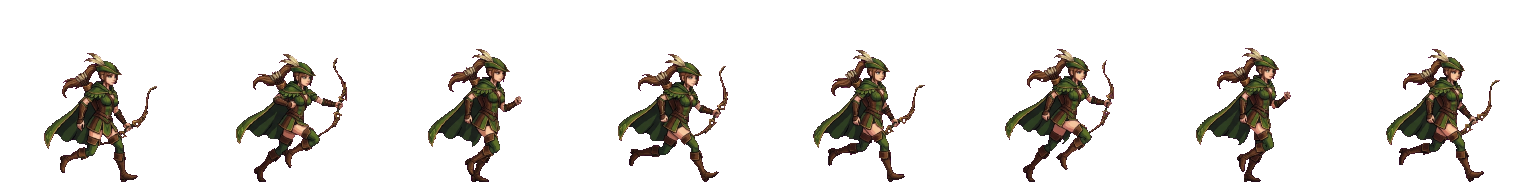
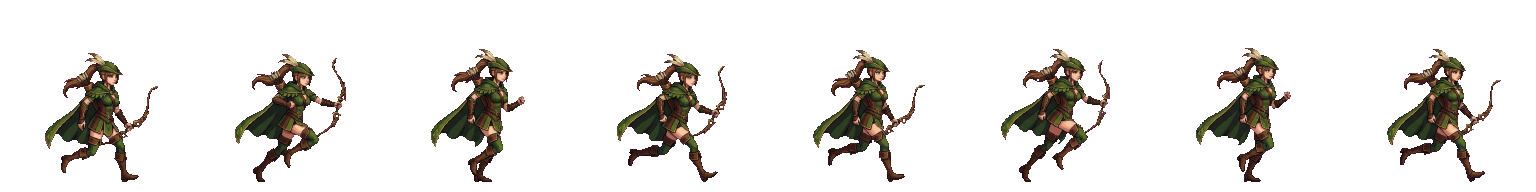
Final check fixes: re-cut hero Idle/Run with feet locked to one ground row, per-frame centring and 7 px margin (posture tests 8/8 pass); processor options --lock-feet/--margin; AK_ONLY_CLIPS to re-cut some clips

diff --git a/Tools/chibi2d/pixel_class.py b/Tools/chibi2d/pixel_class.py
@@ -239,6 +239,7 @@ MONSTERS["MushroomKing"] = dict(target=370, cell=384, gen_extra="Keep the same s
                                      "surrounding its whole body, cracked glowing ground under its giant feet, an immense overwhelming power stance that "
                                      "fills the whole canvas, dark-fantasy pixel style, side view facing right. "
                                      "Palette: blood crimson, cream, royal gold, black cape, glowing violet, dark outline"))
+CLASSES["Swordsman"] = dict(ref="", attack="", skill="", stash="sword on the back")   # generated earlier under the name "knight": only process/install are used
 for _n, _d in MONSTERS.items():
     CLASSES[_n] = _d
 
@@ -259,7 +260,7 @@ def clips_for(cls):
 
 
 # per-clip processor flags: drop ground lines the generator draws, keep only the hero (projectile is separate VFX), anchor on the body
-EXTRA = {"Jump": ["--deline"], "Attack": ["--hero-only", "--anchor-body"], "Skill": ["--anchor-body", "--copy", "6:5"]}
+EXTRA = {"Idle": ["--lock-feet", "--margin"], "Run": ["--lock-feet", "--margin"], "Jump": ["--deline"], "Attack": ["--hero-only", "--anchor-body"], "Skill": ["--anchor-body", "--copy", "6:5"]}
 
 
 def py():
@@ -328,8 +329,18 @@ def cmd_process(cls):
     os.makedirs(od, exist_ok=True)
     cellpx = int((MONSTERS.get(cls) or {}).get("cell", 192))   # bosses: 384 (same 101 px per metre)
     meta = {"cell": cellpx, "pixel": True, "frame_m": round(cellpx / 101.05, 3), "ground_from_bottom_m": round(0.099 * cellpx / 192, 4), "clips": {}}
+    prev = os.path.join(FINAL, cls, f"{cls}_frames.json")
+    if os.environ.get("AK_ONLY_CLIPS") and os.path.exists(prev):          # re-cut only some clips: keep the rest of the installed meta
+        meta = json.load(open(prev, encoding="utf-8-sig"))
+        for n2, *_ in clips_for(cls):                                      # and the other strips, so install copies a full set
+            if n2 not in os.environ["AK_ONLY_CLIPS"].split(",") and os.path.exists(os.path.join(FINAL, cls, f"{cls}_{n2}.png")):
+                shutil.copy(os.path.join(FINAL, cls, f"{cls}_{n2}.png"), os.path.join(od, f"{cls}_{n2}.png"))
     for n, f, lay, ar, fps, loop, tpl, wh in clips_for(cls):
-        src = os.path.join(RAW, f"pixel_{cls.lower()}_{n.lower()}", "image_0.png")
+        only = os.environ.get("AK_ONLY_CLIPS")
+        if only and n not in only.split(","):
+            continue
+        rawname = {"Swordsman": "knight"}.get(cls, cls.lower())     # the first hero was generated under the name "knight"
+        src = os.path.join(RAW, f"pixel_{rawname}_{n.lower()}", "image_0.png")
         cnt = f if f else 7
         args = [py(), os.path.join(HERE, "process_pixel_strip.py"), src, od, cls, n, str(cnt)]
         if wh >= 0:
@@ -370,6 +381,7 @@ if __name__ == "__main__":
     if len(sys.argv) < 3 or sys.argv[2] not in CLASSES:
         sys.exit(__doc__)
     {"plan": cmd_plan, "ref": cmd_ref, "gen": cmd_gen, "process": cmd_process, "install": cmd_install}[sys.argv[1]](sys.argv[2])
+
 
 
 

diff --git a/Tools/chibi2d/process_pixel_strip.py b/Tools/chibi2d/process_pixel_strip.py
@@ -223,6 +223,8 @@ def main():
         def place(it):
             h, w = it["tile"].shape[:2]
             a = it["cx"] if '--anchor-body' in argv else anchor
+            if '--lock-feet' in argv:   # locomotion / idle: every frame's lowest pixel on the same ground row (the posture test allows 1 px)
+                return CELL // 2 + (it["bx0"] - it["cx"]), (CELL - GROUND_PX) - h, w, h      # also centre each frame on its own centroid
             return CELL // 2 - 20 * ('--anchor-body' in argv) + (it["bx0"] - a), (CELL - GROUND_PX) - (base - it["top"]), w, h
     
         # uniform shift so every frame fits inside the cell
@@ -230,20 +232,22 @@ def main():
         maxx = max(place(it)[0] + place(it)[2] for it in real)
         miny = min(place(it)[1] for it in real)
         maxy = max(place(it)[1] + place(it)[3] for it in real)
+        mg = 7 if '--margin' in argv else 0          # --margin: keep 7 px free to every cell edge (the posture test fails sprites that touch it)
         sx = 0.0
-        if minx < 0:
-            sx = -minx
-        elif maxx > CELL:
-            sx = CELL - maxx
+        if minx < mg:
+            sx = mg - minx
+        elif maxx > CELL - mg:
+            sx = CELL - mg - maxx
         sy = 0.0
-        if miny < 0:
-            sy = -miny
+        if miny < mg:
+            sy = mg - miny
         elif maxy > CELL:
             sy = CELL - maxy
         print("fit", round(minx, 1), round(maxx, 1), round(miny, 1), round(maxy, 1), "shift", round(sx, 1), round(sy, 1))
         span_x, span_y = maxx - minx, maxy - miny
-        if max(span_x, span_y) > CELL - 2 and "--ref-scale" not in argv:
-            scale *= (CELL - 2) / max(span_x, span_y)
+        room = CELL - (14 if '--margin' in argv else 2)       # --margin keeps 7 px free on every side (no sprite touching the frame edge)
+        if max(span_x, span_y) > room and "--ref-scale" not in argv:
+            scale *= room / max(span_x, span_y)
             print("too wide, rescale", round(scale, 4))
             continue
         break
